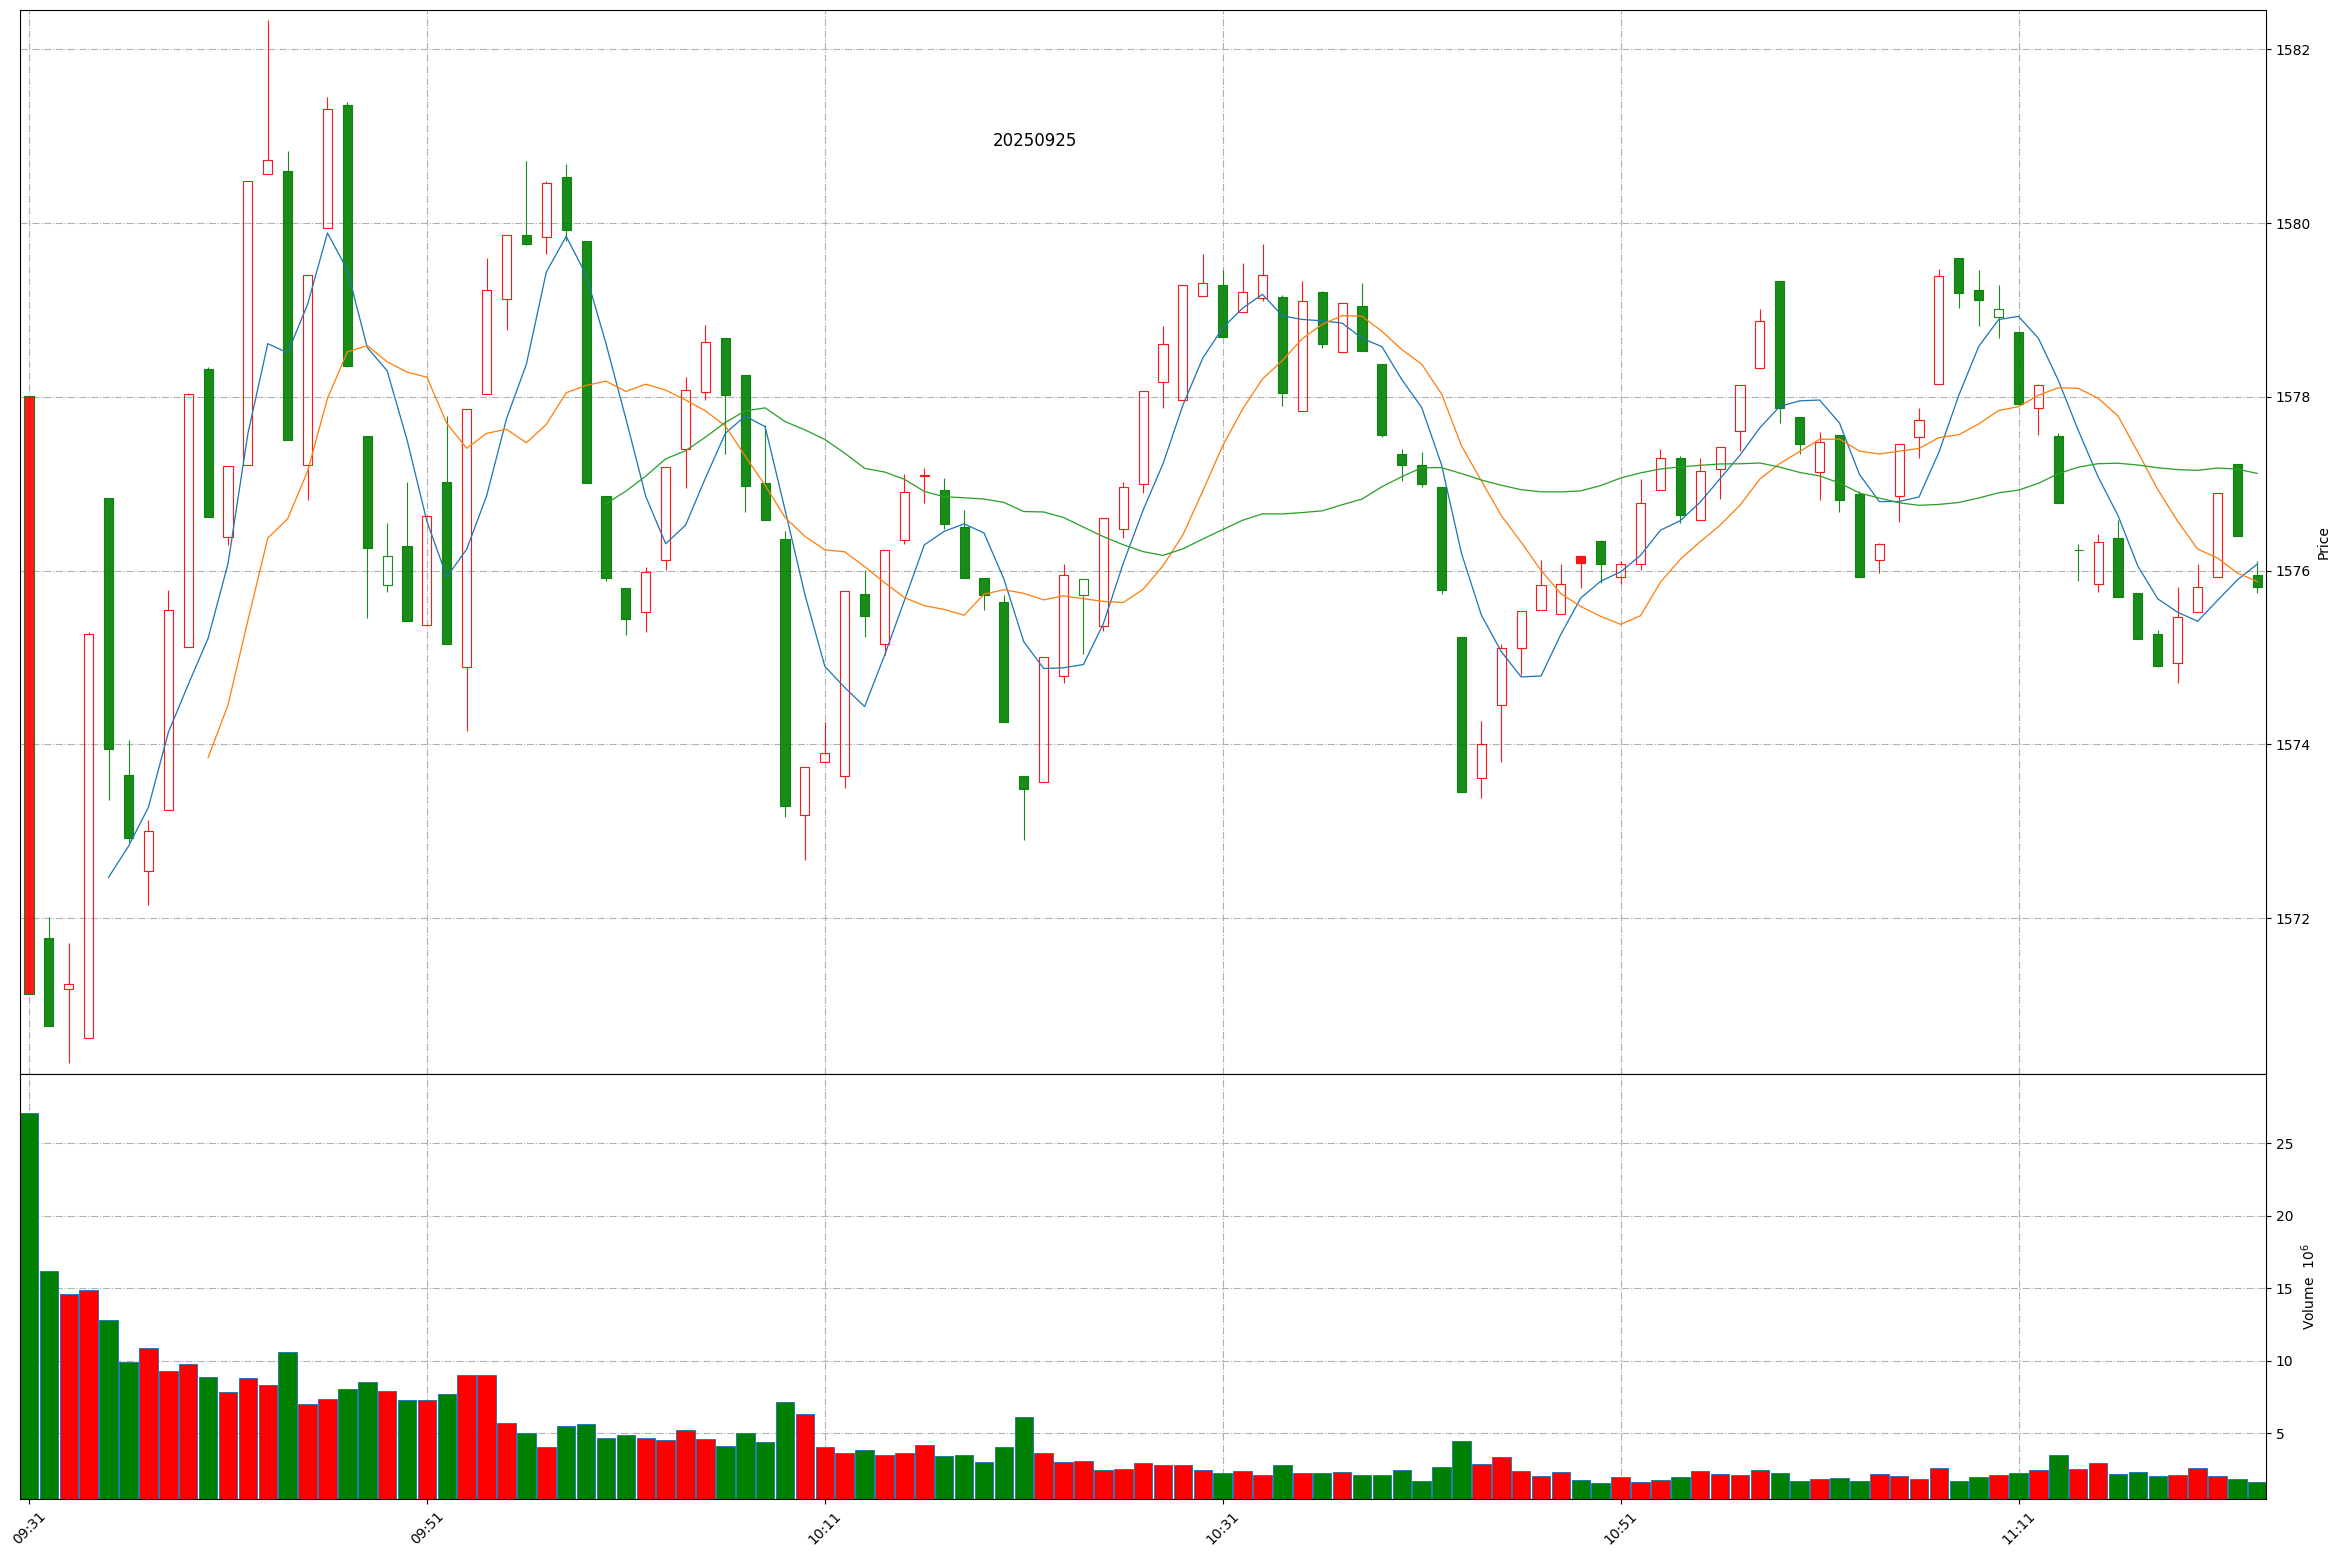
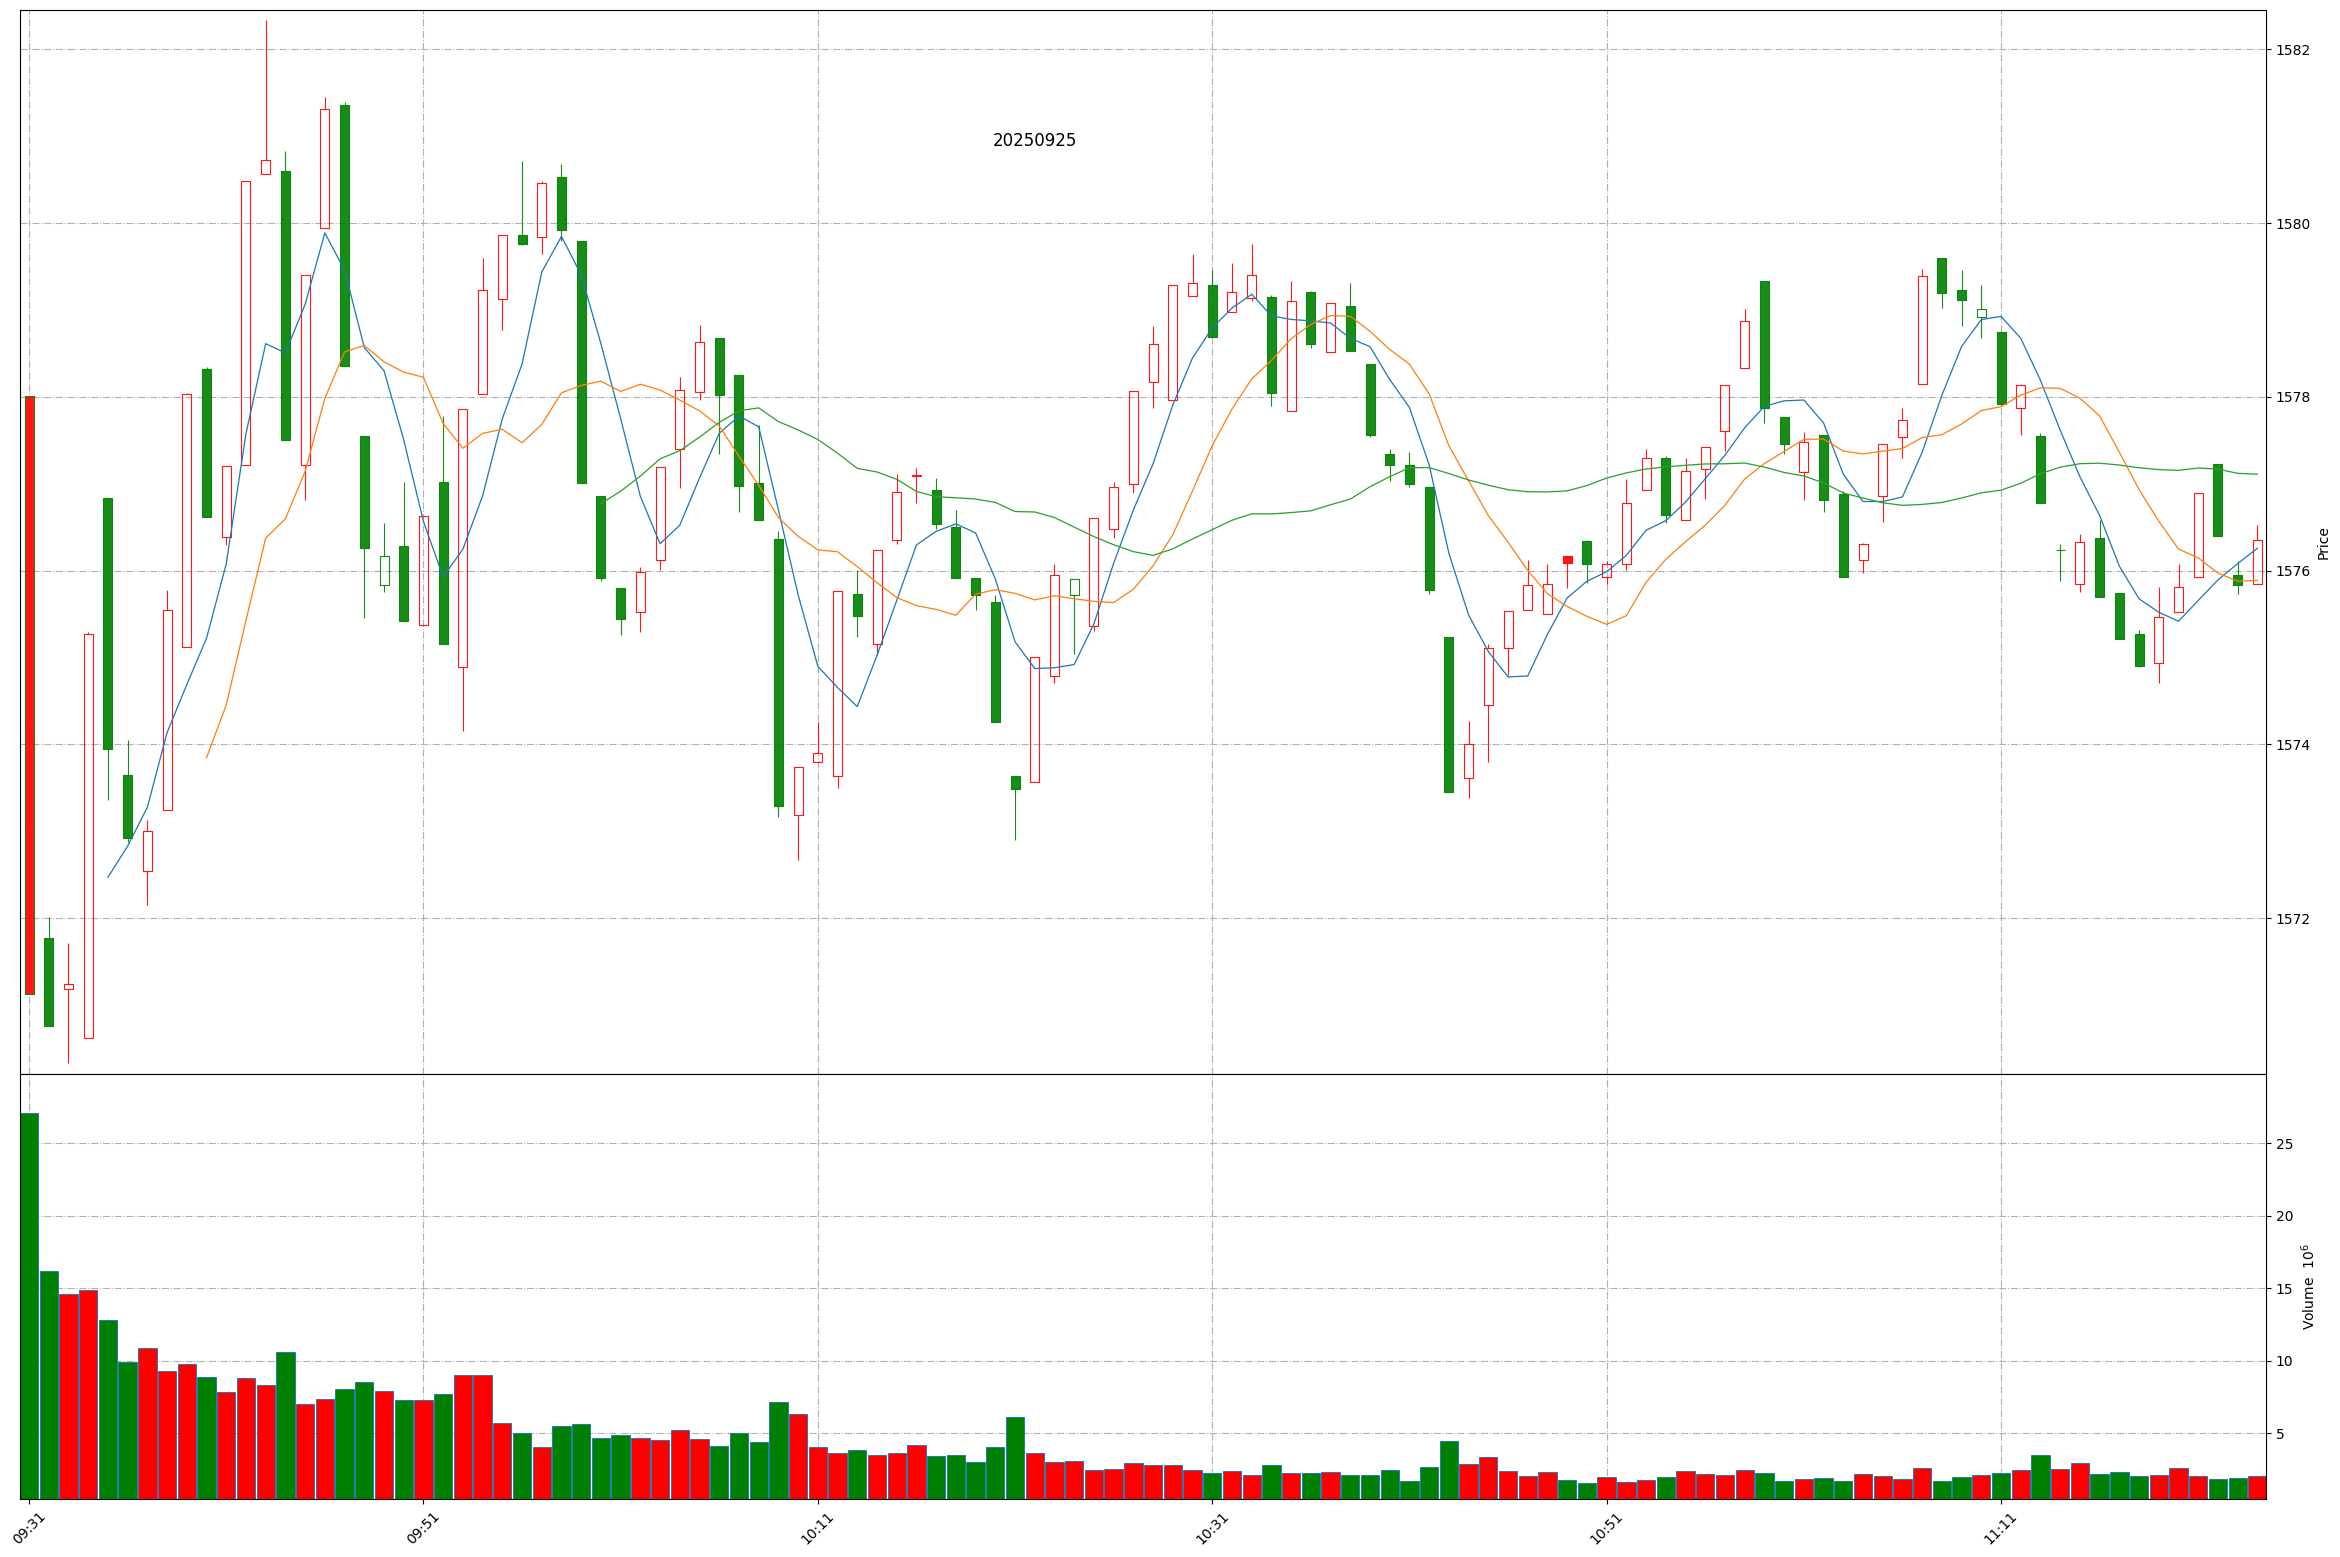
Github action update at 2025-09-25 11:24:12.

diff --git a/README.md b/README.md
@@ -1,11 +1,11 @@
 
 # Daily-A-share-market-quotes 每日 A 股指数（5min 更新）- 20250925
 
-### 上证指数 20250925 11:23
+### 上证指数 20250925 11:24
 ![](./fig/2025/9/20250925-sh000001.png)
 
-### 深证成指 20250925 11:23
+### 深证成指 20250925 11:24
 ![](./fig/2025/9/20250925-sz399001.png)
 
-### 北证50 20250925 11:23
+### 北证50 20250925 11:24
 ![](./fig/2025/9/20250925-bj899050.png)
